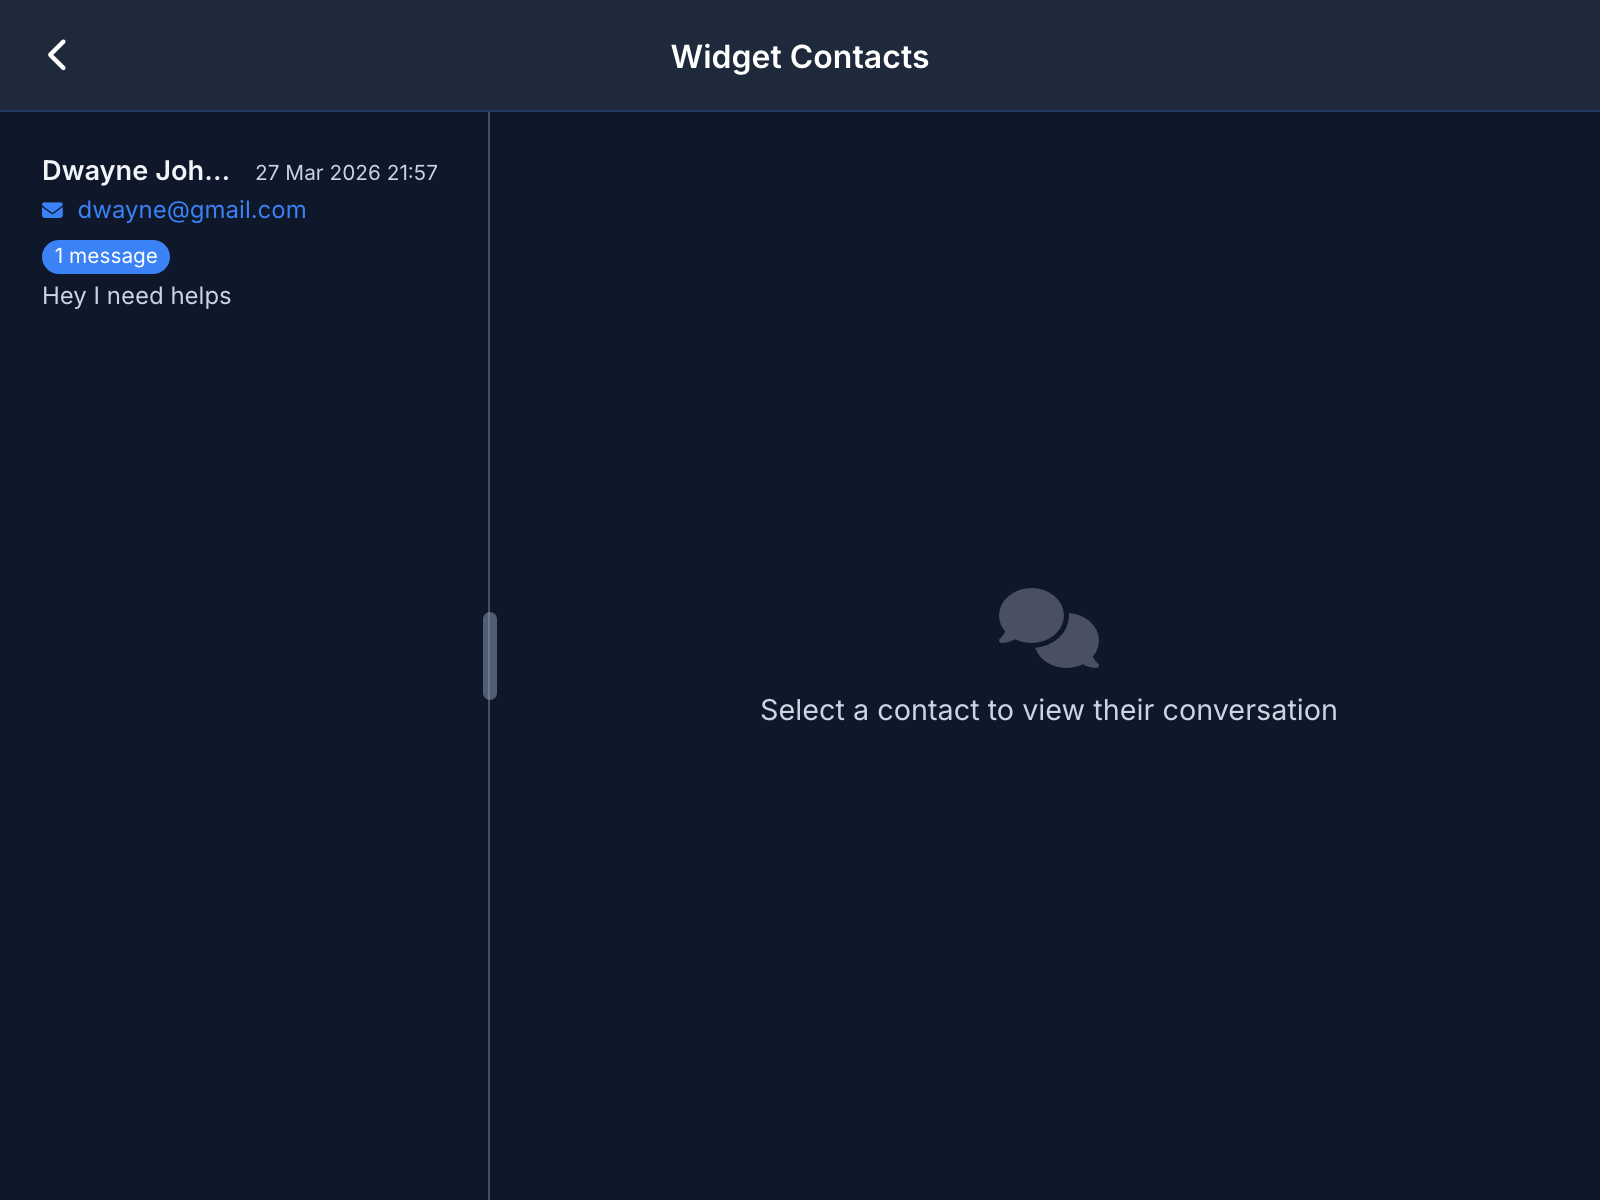
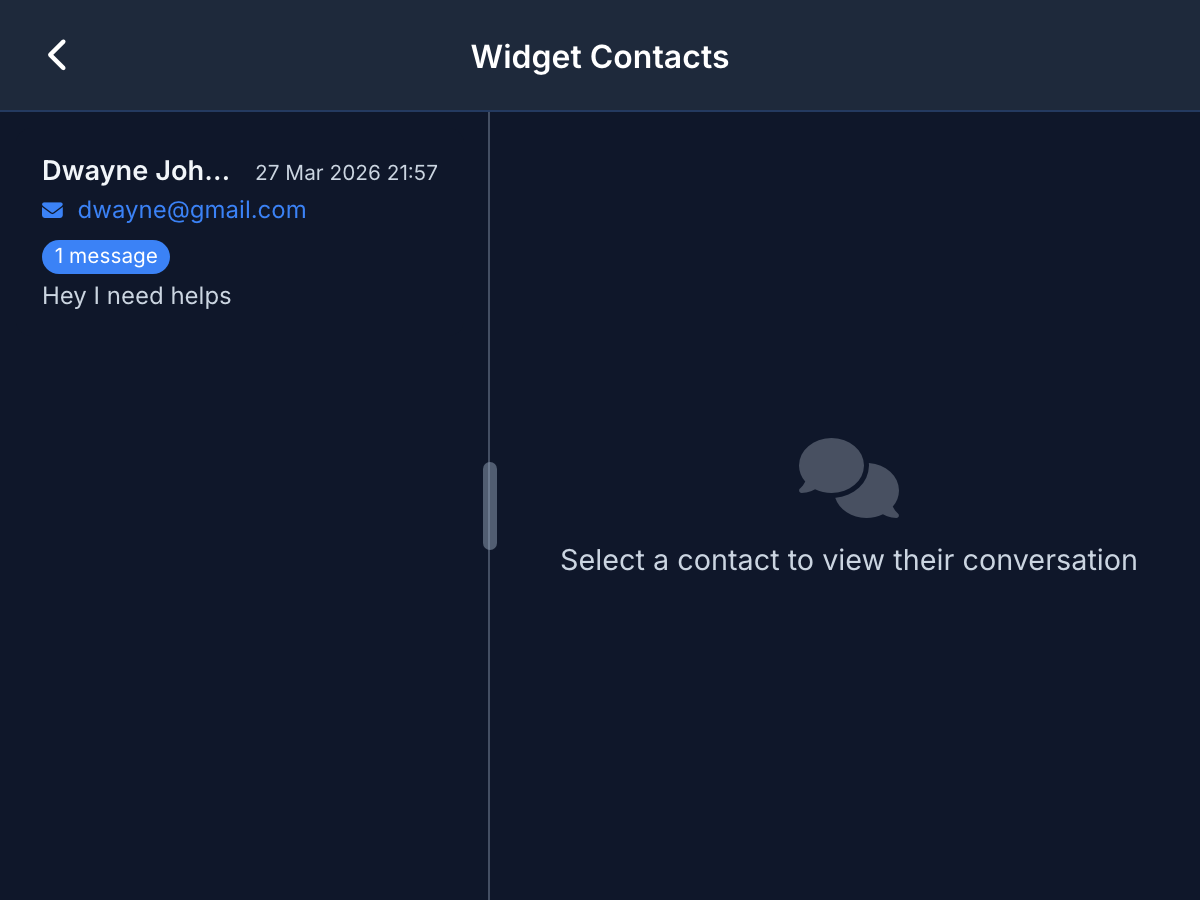
fix: admin screenshots at 600px wide with contacts list and conversation views
- Capture 44-admin-empty at 600x450 @2x showing contacts list
- Capture 45-admin-contacts at 600x450 @2x after clicking first contact
- Fix deployAWS.sh SSH_OPTS to use bash array for paths with spaces

Made-with: Cursor

diff --git a/scripts/take-screenshots.ts b/scripts/take-screenshots.ts
@@ -659,10 +659,10 @@ async function main() {
   }
   await wCtx.close();
 
-  // ── ADMIN: contacts + conversation (after widget created guest) ─────
+  // ── ADMIN: contacts list, then click contact for conversation ───────
   console.log('\n[17] Admin contacts & conversation...');
   const admCtx = await browser.newContext({
-    storageState: AUTH_A, viewport: { width: 504, height: 378 }, deviceScaleFactor: 3,
+    storageState: AUTH_A, viewport: { width: 600, height: 450 }, deviceScaleFactor: 2,
     baseURL: FRONTEND, ignoreHTTPSErrors: true,
   });
   const adm = await admCtx.newPage();
@@ -670,7 +670,10 @@ async function main() {
   await adm.waitForSelector('text=Loading', { state: 'hidden', timeout: 10_000 }).catch(() => {});
   await adm.waitForTimeout(3000);
 
-  // Click the first contact to show conversation alongside the list
+  // Screenshot 1: contacts list (no contact selected)
+  await shot(adm, '44-admin-empty');
+
+  // Screenshot 2: click first contact to show the conversation
   const guestCard = adm.locator('[class*="card"]').first();
   if (await guestCard.isVisible({ timeout: 5000 }).catch(() => false)) {
     await guestCard.click();

diff --git a/frontend/src/version.ts b/frontend/src/version.ts
@@ -1,1 +1,1 @@
-export const version = '0.1.47';
+export const version = '0.1.48';

diff --git a/Documentation/VERSION.md b/Documentation/VERSION.md
@@ -4,6 +4,16 @@ All notable changes to Chatr are documented here. New entries are auto-generated
 
 ---
 
+## v0.1.48 — 2026-03-27
+
+**Commit:** `d019680` — fix: admin screenshots at 600px wide with contacts list and conversation views
+
+- Capture 44-admin-empty at 600x450 @2x showing contacts list
+- Capture 45-admin-contacts at 600x450 @2x after clicking first contact
+- Fix deployAWS.sh SSH_OPTS to use bash array for paths with spaces
+
+---
+
 ## v0.1.47 — 2026-03-27
 
 **Commit:** `7c27bb3` — feat: admin panel improvements, widget icon fix, profile image sync
